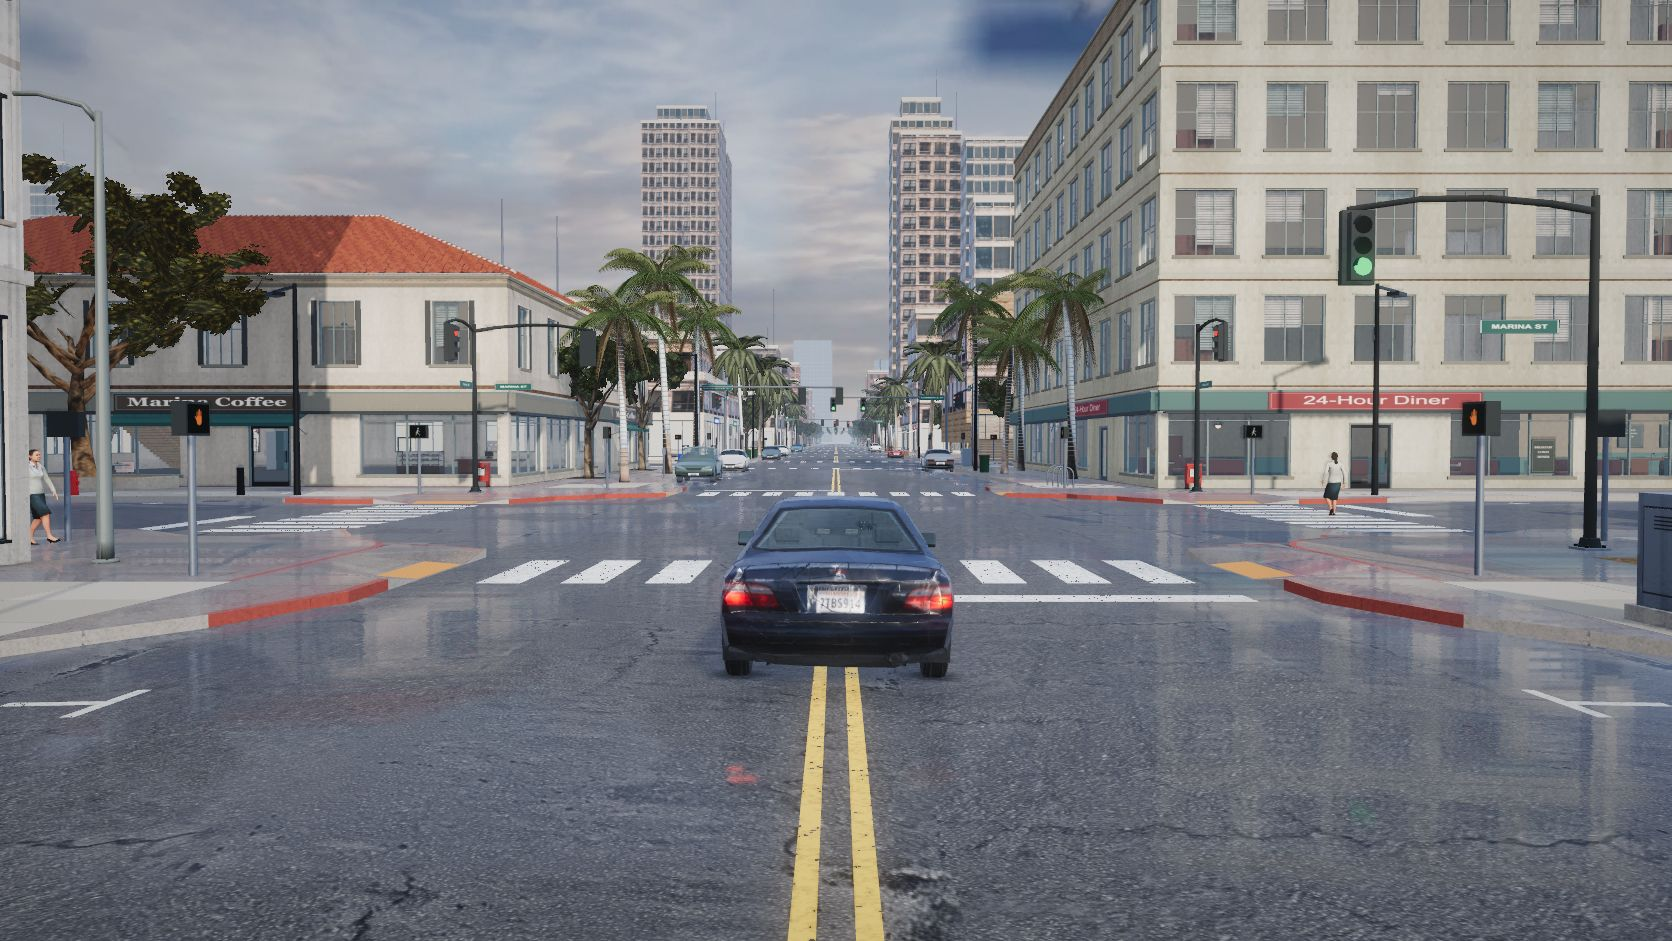
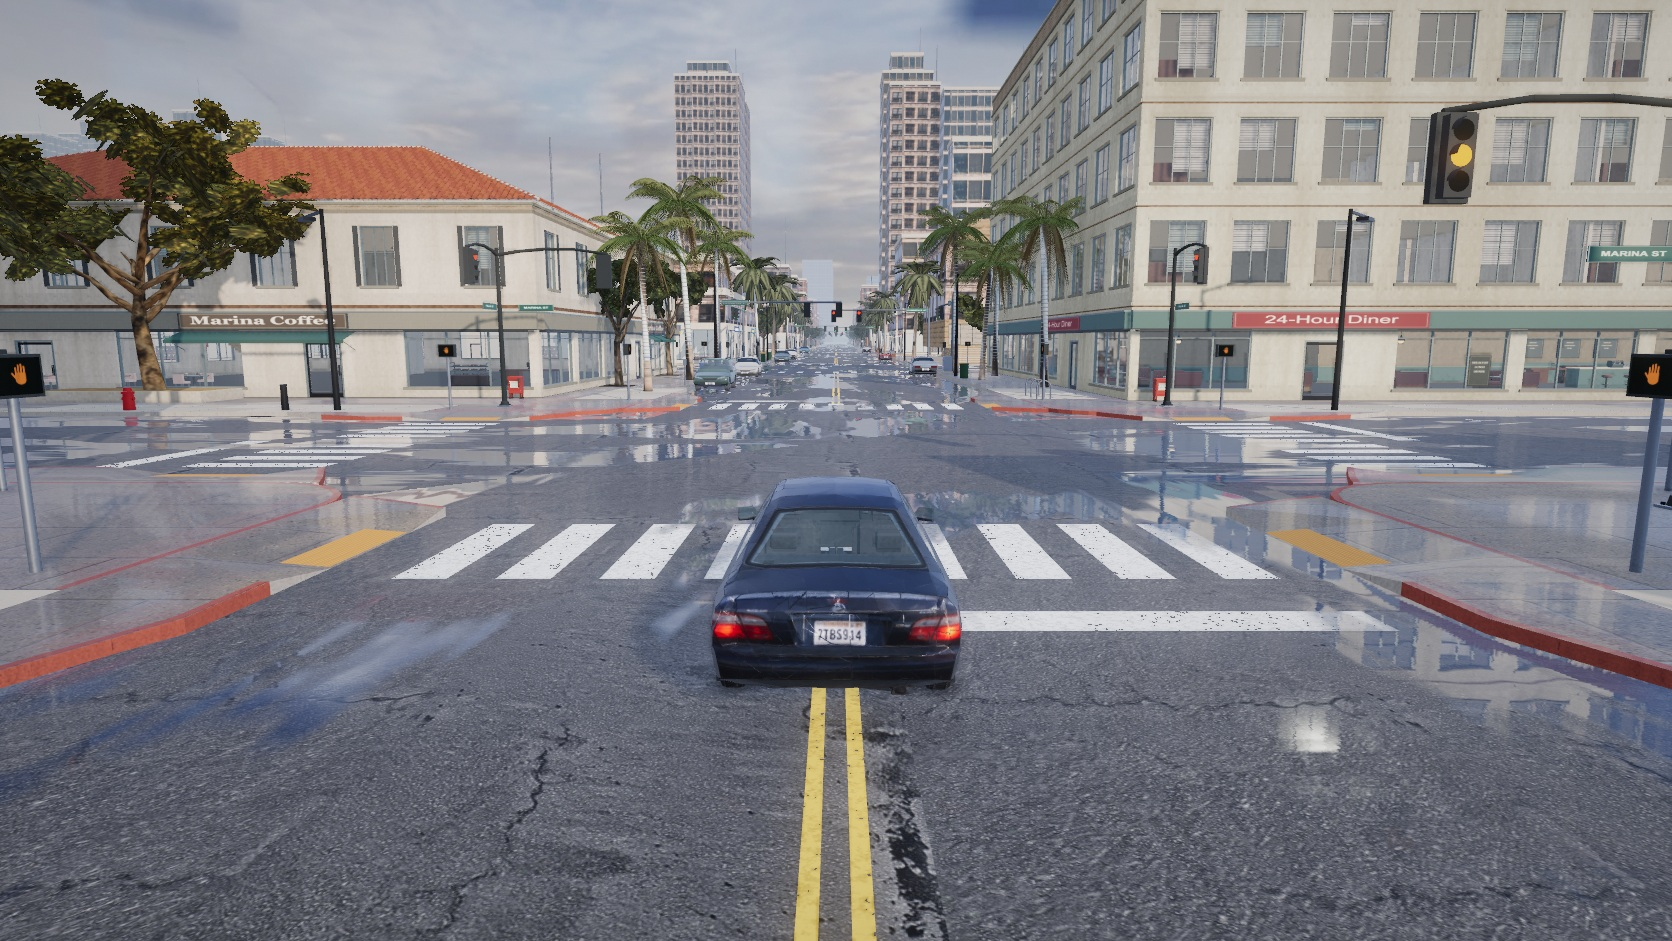
Match wet street reflections and the Foundry Street shop entrances

diff --git a/asphalt-heat/js/core.js b/asphalt-heat/js/core.js
@@ -92,10 +92,17 @@ function makeWet(mat,opt){opt=opt||{};mat.userData.wet=opt;
     float film=uWet*exposed*facingUp*uWetness;
     float pud=smoothstep(.49,.652,pool)*film;
     float damp=film*(.74+.26*big);
-    ${opt.road?`float midblock=smoothstep(8.,16.,max(grid.x,grid.y));
-    float downhill=smoothstep(2.7,7.5,min(grid.x,grid.y));
-    float retention=mix(.42,mix(.16,.92,downhill),midblock);
-    pud*=retention;damp*=mix(.65,1.,retention);`:''}
+    ${opt.road?`// Water collects in aggregate hollows first. As the road dries, each pool recedes at its edges.
+    float across=min(grid.x,grid.y),midblock=smoothstep(8.,16.,max(grid.x,grid.y));
+    float downhill=smoothstep(2.7,7.5,across);
+    float retention=mix(.54,mix(.24,.94,downhill),midblock);
+    float wheelPath=1.-smoothstep(.12,.65,abs(min(abs(across-2.),abs(across-6.))-.75));
+    float aggregateRidges=vnoise(tangent*vec2(1.15,5.8));
+    float basin=pool-.105*(1.-retention)+midblock*.035*wheelPath+.11*(aggregateRidges-.5);
+    // Stripe paint and asphalt share the same water level along a crossing.
+    float waterLevel=.828-.39*uWetness;
+    pud=smoothstep(waterLevel-.031,waterLevel+.058,basin)*smoothstep(.08,.25,uWetness)*exposed*facingUp;
+    damp*=mix(.73,1.,retention);`:''}
     float grain=vnoise(vWP.xz*34.);
     roughnessFactor=mix(roughnessFactor,.29+grain*.15,damp*.81);roughnessFactor=mix(roughnessFactor,.055,pud);diffuseColor.rgb*=mix(1.,.60,damp)*mix(1.,.44,pud);
     ${opt.tint?'diffuseColor.rgb*=mix(.78,1.13,big);':''}
@@ -123,8 +130,10 @@ function makeWet(mat,opt){opt=opt||{};mat.userData.wet=opt;
      normal=normalize(normal+mat3(viewMatrix)*vec3(slope.x,0.,slope.y)*.11);
     }`)
    .replace('#include <tonemapping_fragment>',`
-    {vec3 V=normalize(cameraPosition-vWP);float fr=.13+.87*pow(1.-max(V.y,0.),3.1);float kk=(pud*.93+damp*mix(.22,.30,uLamp)*(1.-pud))*fr*reflOn*(1.-smoothstep(.40,.65,vWP.y));
-     if(kk>.002){vec2 dist=normal.xz*mix(.016,.0025,pud)+vec2(grain-.5,big-.5)*.003;vec4 ru=vRU;ru.xy+=dist*ru.w;vec3 rc=texture2DProj(tRefl,ru).rgb;
+    {vec3 V=normalize(cameraPosition-vWP);float fr=.035+.965*pow(1.-max(V.y,0.),3.7);float kk=(pud*.93+damp*mix(.22,.30,uLamp)*(1.-pud))*fr*reflOn*(1.-smoothstep(.40,.65,vWP.y));
+     if(kk>.002){vec2 dist=(normal-normalize(vNormal)).xy*mix(.016,.005,pud)+vec2(grain-.5,big-.5)*mix(.003,.0012,pud);
+      ${opt.road?'dist.y+=(aggregateRidges-.5)*.008*pud;':''}
+      vec4 ru=vRU;ru.xy+=dist*ru.w;vec3 rc=texture2DProj(tRefl,ru).rgb;
       if(pud<.6){vec4 r2=ru;r2.x+=.008*ru.w;vec4 r3=ru;r3.y-=.012*ru.w;rc=(rc+texture2DProj(tRefl,r2).rgb+texture2DProj(tRefl,r3).rgb)/3.;}
       vec2 edge=abs(ru.xy/max(.001,ru.w)-.5);
       float valid=1.-smoothstep(.46,.50,max(edge.x,edge.y));

diff --git a/asphalt-heat/js/shop-architecture.js b/asphalt-heat/js/shop-architecture.js
@@ -2,8 +2,8 @@
 const SHOP_ELEVATIONS={brick:null,stucco:null,sash:null,sill:null,panes:null,caps:null,fascias:null,awning:null,frontages:[]};
 const RIVERSIDE_SHOPS={
  donuts:{name:'Riverside Donuts',line:'BAKED DAILY',color:'#4e3136'},
- books:{name:'Harbor Books & Café',line:'246',color:'#282b29'},
- studio:{name:'Coastal Nails',line:'NAILS · PEDICURE · WAXING',color:'#633b43'}
+ books:{name:'Harbor Books & Café',address:'248',color:'#282b29'},
+ studio:{name:'Coastal Nails',address:'252',line:'NAILS · PEDICURE · WAXING',color:'#633b43'}
 };
 
 function initShopArchitecture(){
@@ -106,9 +106,10 @@ function riversideFascia(row,M,u0,u1){
   const wall=lpt(M,x,.02),out=lpt(M,x,-.879);
   worksBeam(MAT.darkMetal,[wall.x,3.28,wall.z],[out.x,3.716,out.z],.021);
  }
- if(index===1){
-  const placard=worksSign('246','#232522','#e6ddc8'),p=lpt(M,center,-.058);
-  worksPlacard(placard,p.x,3.03,p.z,.54,.20,Math.atan2(M.elements[8],M.elements[10]));
+ const address=Object.values(RIVERSIDE_SHOPS)[index].address;
+ if(address){
+  const placard=worksSign(address,'#232522','#e6ddc8'),p=lpt(M,center,-.058);
+  worksPlacard(placard,p.x,3.07,p.z,1.27,.34,Math.atan2(M.elements[8],M.elements[10]));
  }
 }
 

diff --git a/asphalt-heat/js/world.js b/asphalt-heat/js/world.js
@@ -638,7 +638,12 @@ function parkCornerPaths(block,x,z,half){
 }
 /* ---- street furniture placement ---- */
 function streetProps(B){const{x0,x1,z0,z1}=B;const dist=B.i===15&&B.j>=13?'docks':districtOf(B.i,B.j);
- for(const[sx,sz]of[[-1,-1],[1,-1],[1,1],[-1,1]])LAMPS.push({x:sx<0?x0+10.4:x1-10.4,z:sz<0?z0+.76:z1-.76,ry:Math.atan2(-sx,-sz)});
+ for(const [sx,sz] of [[-1,-1],[1,-1],[1,1],[-1,1]]){
+  const bookseller=B.i===4&&B.j===6&&sx<0&&sz<0;
+  // Photo 018 places this crook behind the parked saloon, clear of the front door and the crossing.
+  const x=bookseller?x0+18.8:sx<0?x0+10.4:x1-10.4;
+  LAMPS.push({x,z:sz<0?z0+.76:z1-.76,ry:bookseller?Math.PI:Math.atan2(-sx,-sz)});
+ }
  for(const e of[0,1,2,3]){const len=48;for(let t=16;t<len-12;t+=16){const p=e===0?[x0+t,z0+.6,Math.PI]:e===1?[x1-.6,z0+t,Math.PI/2]:e===2?[x0+t,z1-.6,0]:[x0+.6,z0+t,-Math.PI/2];if(srnd()<.55)LAMPS.push({x:p[0],z:p[1],ry:p[2]+Math.PI,mid:1});}}
  const sideP=(e,t,o)=>e===0?[x0+t,z0+o]:e===1?[x1-o,z0+t]:e===2?[x0+t,z1-o]:[x0+o,z0+t];
  const kinds=dist==='docks'?['barrel','barrel','cone','bin','hydrant']:dist==='suburb'?['bin','hydrant','mailbox']:['hydrant','bin','news','meter','meter','bench','bollard','bin'];

diff --git a/asphalt-heat/js/props.js b/asphalt-heat/js/props.js
@@ -27,8 +27,6 @@ function initProps(){const C=(r0,r1,h,s=10)=>new THREE.CylinderGeometry(r0,r1,h,
   mat:blue,shape:()=>new CANNON.Box(new CV(.30,.65,.32)),off:new CV(0,.65,0),mass:60};
  const spots=[...PROPSPOTS];
  for(const L of LAMPS){
-  // Keep one crook over Harbor Books. A corner and midblock candidate are only 5.6 metres apart here.
-  if(Math.abs(L.x-274.4)<.05&&Math.abs(L.z-392.76)<.05)continue;
   const B=blockOf(L.x,L.z),historic=B&&(B.park||B.dist==='oldtown'||(B.i===3||B.i===4)&&B.j===5||B.i===4&&B.j===6);
   spots.push({type:historic?'lantern':'lamp',x:L.x,z:L.z,ry:L.ry});
  }

diff --git a/Meshy Sources/City reference index.md b/Meshy Sources/City reference index.md
@@ -21,7 +21,7 @@ The 112 images in **Natural Photos** supplied the visual target for this build. 
 | Lighthouse | 032, 050, 076 | Keeper wall, ashlar tower, gallery, revolving Fresnel optic, 96 walkable treads, sand and breaking surf. |
 | Pier | 063, 064, 075 | Nine timber approach steps, bolted boards, joists, tidal marks on the pilings, galvanized rails and breaking swells. |
 
-The north-facing frontage on Foundry Street recreates the three adjacent shopfronts in 018. Their brick reveals, frames, projecting sills, awnings and interiors are geometry. The bookseller's display, manicure tools, grocer's coolers, laundry machines, heritage lighting, sycamores and date palms are in the editable **Blender Sources** library. [Riverside shop row](City%20Review/Riverside%20shop%20row.jpg)
+The north-facing frontage on Foundry Street recreates the three adjacent shopfronts in 018. Their brick reveals, frames, projecting sills, awnings and interiors are geometry. Harbor Books & Café has number 248, Coastal Nails has number 252, and the cast lantern stands behind the maroon saloon. Water pools in low patches of asphalt across the painted crossing and recedes as the road dries. The bookseller's display, manicure tools, grocer's coolers, laundry machines, heritage lighting, sycamores and date palms are in the editable **Blender Sources** library. [Riverside shop row](City%20Review/Riverside%20shop%20row.jpg)
 
 The market, pumping station and connected sanitary line use inferred dimensions and internal layouts. Single views supplied the visible silhouettes and finishes of objects. The asset manifest and four-angle images document the reconstructions.
 
